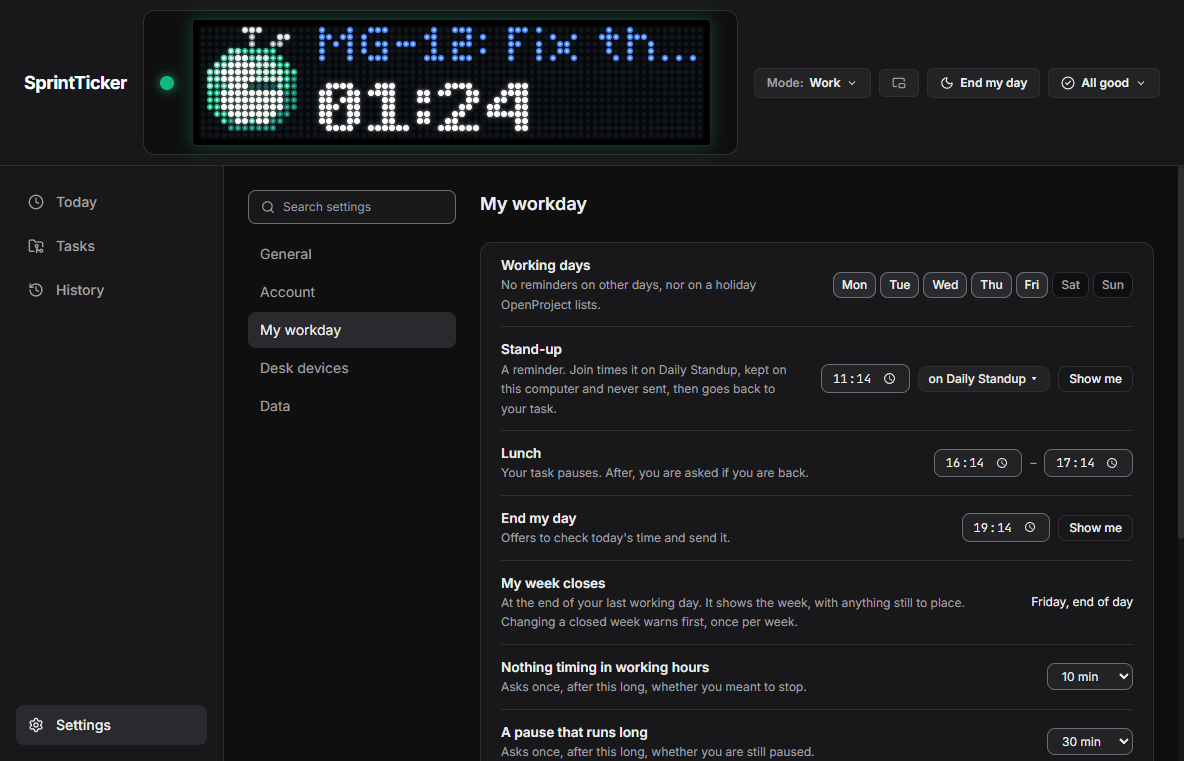
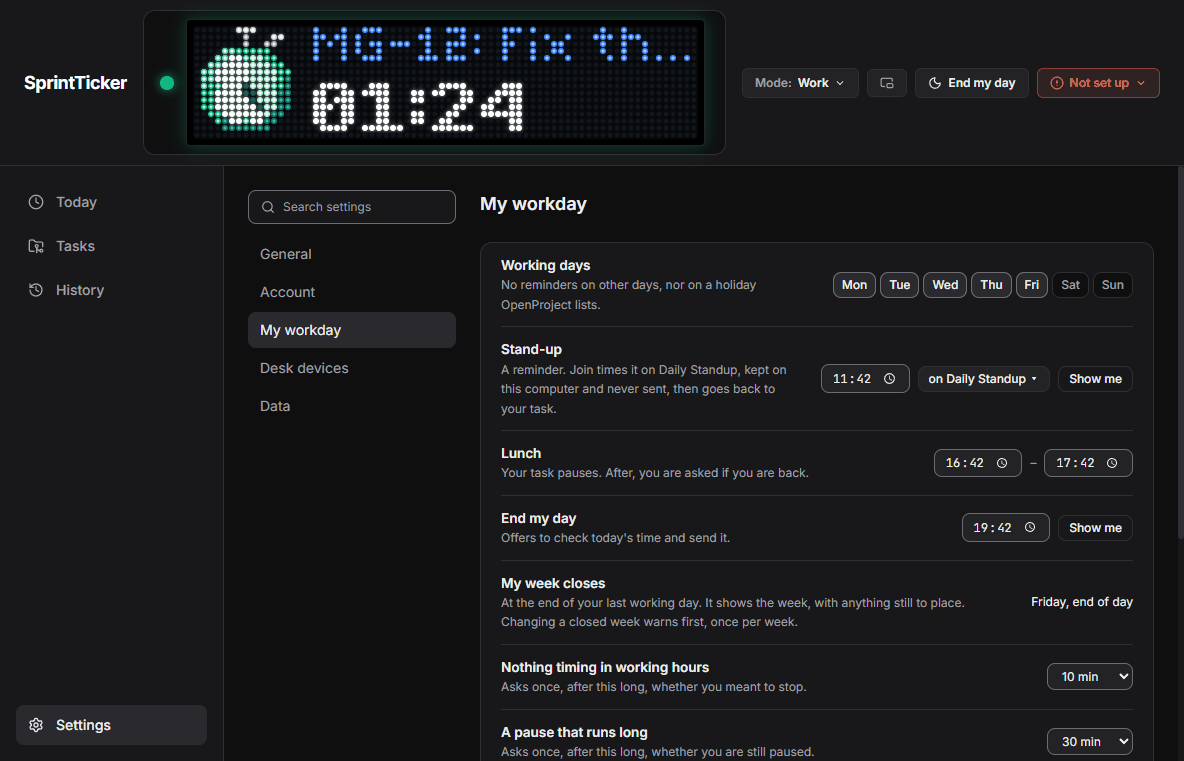
Redesign P15a6: behaviour
Today asks one question at a time, the most urgent first, with a line
counting the others (REVIEW-2026-11 C5, the user's choice). The day's
total keeps the held task during an interruption (C6); Switch leaves the
running task out (C8); the page scrolls clear of the Undo bar (C14);
Today's running row reads like the others (C18); the status says Not set
up with no account (C11); the mini timer's icons (C16) and the header's
words without a bar (C20). The Place window keeps its size: it hosts the
picker.

Changed region(s): [[0.1562, 0.0302, 0.7188, 0.1813], [0.75, 0.0907, 0.9688, 0.1209], [0.7188, 0.4836, 0.75, 0.5138]]

diff --git a/packages/desktop-app/src/renderer/views/Today/TodayView.tsx b/packages/desktop-app/src/renderer/views/Today/TodayView.tsx
@@ -2,9 +2,9 @@ import React, { useState } from 'react';
 import { ActiveSessionDTO, TaskDTO, WorklogDTO } from '../../../shared/dtos';
 import { ActiveTaskHeroCard } from '../../components/ActiveTaskHeroCard';
 import { PickerMode } from '../../hooks/useModals';
-import { useCeremonyPrompt, useMorning, useReminder, useUserMode } from '../../hooks/usePrompts';
+import { useCeremonyPrompt, useForgottenReview, useMorning, useReminder, useResumePrompt, useUserMode } from '../../hooks/usePrompts';
 import { MorningCard } from '../../components/MorningCard';
-import { TaskLeftCard } from '../../components/TaskLeftCard';
+import { TaskLeftCard, wasKept } from '../../components/TaskLeftCard';
 import { ReminderCard } from '../../components/ReminderPrompt';
 import { BreakCard, LunchQuestionCard, StandupCard } from '../../components/PromptCards';
 import { ResumeAfterLunchPrompt } from '../../components/ResumeAfterLunchPrompt';
@@ -61,25 +61,41 @@ export const TodayView: React.FC<TodayViewProps> = ({
   const [morning, putMorningAway] = useMorning();
   // When Today opened: the morning card's "in 22 minutes" counts from it.
   const [openedAt] = useState(() => new Date());
+  const [resume] = useResumePrompt();
+  const [forgotten] = useForgottenReview();
+  // Bumped when the task-left card is put away, so the next question shows.
+  const [, setKeptCount] = useState(0);
   const leaveAway = () => {
     setMode('WORK');
     window.electronAPI.setUserMode('WORK').catch(err => console.warn('[TodayView] Leaving Away failed:', err));
   };
+  // One question at a time, the most urgent first (REVIEW-2026-11 C5, the
+  // user's choice, 2026-11-13): stacked, three amber cards contradicted each
+  // other -- two Resume buttons -- and pushed the session's controls down.
+  const questions: React.ReactNode[] = [];
+  if (forgotten?.deferred) questions.push(<ForgottenSessionCard key="forgotten" />);
+  if (resume) questions.push(<ResumeAfterLunchPrompt key="resume" />);
+  if (ceremony?.type === 'LUNCH') questions.push(<LunchQuestionCard key="lunch" prompt={ceremony} />);
+  if (ceremony?.type === 'STANDUP') questions.push(<StandupCard key="standup" prompt={ceremony} session={session} />);
+  if (mode !== 'WORK') questions.push(<BreakCard key="break" mode={mode} session={session} onLeaveAway={leaveAway} />);
+  if (session?.taskUnlisted && !session.interruption && !wasKept(session)) {
+    questions.push(
+      <TaskLeftCard key={`${session.sessionId}-${session.taskLeftBecause ?? 'reassigned'}`} session={session}
+        onSwitch={() => onOpenPicker('start')} onKept={() => setKeptCount(n => n + 1)} />
+    );
+  }
+  if (reminder) questions.push(<ReminderCard key="reminder" reminder={reminder} openPicker={() => onOpenPicker('start')} onAnswered={() => setReminder(null)} />);
+  const [first, ...rest] = questions;
+  const more = rest.length;
   return (
   <div className="space-y-6">
     {/* The page's own heading (A20): its cards are h3 under it. */}
     <h2 className="sr-only">Today</h2>
-    <ForgottenSessionCard />
     {device && onOpenSettings && <StatusCards device={device} onOpenSettings={onOpenSettings} />}
     {morning && !session && <MorningCard morning={morning} now={openedAt} onOpenPicker={() => onOpenPicker('start')} onPutAway={putMorningAway} />}
-    {ceremony?.type === 'STANDUP' && <StandupCard prompt={ceremony} session={session} />}
-    {ceremony?.type === 'LUNCH' && <LunchQuestionCard prompt={ceremony} />}
-    <ResumeAfterLunchPrompt />
-    <BreakCard mode={mode} session={session} onLeaveAway={leaveAway} />
-    {reminder && <ReminderCard reminder={reminder} openPicker={() => onOpenPicker('start')} onAnswered={() => setReminder(null)} />}
-
-    {session?.taskUnlisted && !session.interruption && (
-      <TaskLeftCard key={`${session.sessionId}-${session.taskLeftBecause ?? 'reassigned'}`} session={session} onSwitch={() => onOpenPicker('start')} />
+    {first}
+    {more > 0 && (
+      <p className="-mt-3 text-xs text-text-secondary">{more === 1 ? '1 more question' : `${more} more questions`} after this one</p>
     )}
 
     <ActiveTaskHeroCard

diff --git a/packages/desktop-app/src/renderer/components/TodayEntries.tsx b/packages/desktop-app/src/renderer/components/TodayEntries.tsx
@@ -1,7 +1,10 @@
 import React, { useState } from 'react';
 import { ActiveSessionDTO, WorklogDTO } from '../../shared/dtos';
 import { localDateKey } from '../../shared/local-date';
-import { formatClockTime, formatHoursAndMinutes } from '../utils/formatters';
+import { formatHoursAndMinutes, formatHoursMinutes } from '../utils/formatters';
+import { hasTaskPage } from '../../shared/task-page';
+import { ADHOC_PROJECT_ID } from '../../shared/adhoc-project';
+import { TaskPageButton } from './TaskPageButton';
 import { useProviderCapabilities } from '../hooks/useProviderCapabilities';
 import { useEntryActions } from './EntryActions';
 import { useInterruptionsToPlace } from './InterruptionsToPlace';
@@ -35,7 +38,9 @@ export const TodayEntries: React.FC<{ session: ActiveSessionDTO | null; worklogs
     .reduce((sum, item) => sum + item.durationSeconds, 0);
   const loggedSeconds = worklogs.reduce((sum, log) => sum + log.durationSeconds, 0);
   const sentSeconds = worklogs.filter(log => log.syncState === 'sent').reduce((sum, log) => sum + log.durationSeconds, 0);
-  const totalSeconds = loggedSeconds + (session?.elapsedSeconds ?? 0) + toPlaceSeconds;
+  // During an interruption the session is the fragment; the task it holds
+  // still counts (C6).
+  const totalSeconds = loggedSeconds + (session?.elapsedSeconds ?? 0) + (session?.interruption?.heldElapsedSeconds ?? 0) + toPlaceSeconds;
 
   const newestFirst = [...worklogs].sort((a, b) => b.startedAtUtc.localeCompare(a.startedAtUtc));
   const shown = showAll ? newestFirst : newestFirst.slice(0, TODAY_ENTRIES_SHOWN);
@@ -76,14 +81,19 @@ export const TodayEntries: React.FC<{ session: ActiveSessionDTO | null; worklogs
                 <td className={`${cell} font-mono font-bold text-text-primary`}>
                   <span className="inline-flex items-center gap-2">
                     <span className={`w-2 h-2 rounded-full ${session.status === 'TRACKING' ? 'bg-accent-green motion-safe:animate-pulse' : 'bg-accent-amber'}`} />
-                    {session.interruption ? '⚡' : session.taskKey}
+                    {session.interruption ? <span aria-hidden="true">⚡</span> : session.taskKey}
+                    {!session.interruption && hasTaskPage(session.isAdHoc ? ADHOC_PROJECT_ID : session.projectId, session.providerId) && (
+                      <TaskPageButton taskId={session.taskId} taskKey={session.taskKey} />
+                    )}
                   </span>
                 </td>
-                <td className={`${cell} text-white font-medium`}>{session.taskTitle}</td>
-                <td className={`${cell} text-xs font-semibold ${session.status === 'TRACKING' ? 'text-accent-green' : 'text-accent-amber'}`}>
-                  {session.status === 'TRACKING' ? 'running' : 'paused'}
+                {/* The rows' own pattern (C18): the note column, a duration, HH:MM. */}
+                <td className={`${cell} text-text-secondary`}>{session.taskTitle}</td>
+                <td className={`${cell} font-mono font-bold whitespace-nowrap ${session.status === 'TRACKING' ? 'text-accent-green' : 'text-accent-amber'}`}>
+                  {formatHoursAndMinutes(session.elapsedSeconds)}
+                  <span className="sr-only">{session.status === 'TRACKING' ? ', running' : ', paused'}</span>
                 </td>
-                <td className={`${cell} text-xs text-text-secondary font-mono`}>{formatClockTime(new Date(session.startTimeUtc))}</td>
+                <td className={`${cell} text-xs text-text-secondary font-mono`}>{formatHoursMinutes(new Date(session.startTimeUtc))}</td>
                 <td className={cell} />
                 <td className={cell} />
               </tr>

diff --git a/docs/index.html b/docs/index.html
@@ -696,8 +696,8 @@
       <li>☾ <strong>End my day</strong> opens the end-of-day wrap-up now.</li>
       <li>✅ <strong>The status entry</strong> says in a word how things stand: <strong>All good</strong>,
       <strong>2 waiting</strong> (entries not yet sent to your provider), <strong>Sending stopped</strong>
-      (your provider refused them), <strong>Update</strong>, or <strong>Bar offline</strong>; the worst
-      wins. Click it for the details, <strong>Try now</strong> to send what waits, and <strong>What
+      (your provider refused them), <strong>Not set up</strong> (no account yet: Settings ›
+      Account › <strong>Set up</strong>), <strong>Update</strong>, or <strong>Bar offline</strong>; the worst wins. Click it for the details, <strong>Try now</strong> to send what waits, and <strong>What
       you missed</strong>: the last notifications the bar showed.</li>
       </ul>
       <p>🧭 <strong>When something is not normal, Today says what still works</strong>, in a card
@@ -1372,7 +1372,8 @@
       hardware controls below.</p>
       <p>🔕 <strong>No prompt takes the window.</strong> SprintTicker never comes up over what you
       are typing. A question waits as a card at the top of <strong>Today</strong> and in the
-      mini timer&#39;s row until you answer it, and, while the window is hidden in the
+      mini timer&#39;s row until you answer it -- one at a time, the most urgent
+      first, with <em>1 more question after this one</em> when others wait -- and, while the window is hidden in the
       tray or minimised, a Windows notification says so; clicking it opens the
       window. The stand-up&#39;s card offers <strong>Join</strong>, <strong>Skip today</strong> and <strong>Remind me in
       10 min</strong>, and stays until you choose. The end-of-day wrap-up opens in the

diff --git a/packages/desktop-app/src/renderer/utils/status-summary.ts b/packages/desktop-app/src/renderer/utils/status-summary.ts
@@ -5,11 +5,11 @@ export type StatusSeverity = 'ok' | 'info' | 'waiting' | 'problem';
 
 const RANK: Record<StatusSeverity, number> = { ok: 0, info: 1, waiting: 2, problem: 3 };
 /** Between two rows as bad: time not reaching the provider is worse than a bar. */
-const TIE: Record<StatusRow['id'], number> = { update: 0, bar: 1, sending: 2 };
+const TIE: Record<StatusRow['id'], number> = { update: 0, bar: 1, sending: 2, account: 3 };
 
 /** One row of the status panel (S27). */
 export interface StatusRow {
-  id: 'bar' | 'sending' | 'update';
+  id: 'account' | 'bar' | 'sending' | 'update';
   severity: StatusSeverity;
   /** The row's first line: what is the case. */
   title: string;
@@ -26,6 +26,11 @@ export interface StatusInputs {
   queue: SyncQueueSnapshotDTO | null;
   update: UpdateStatusDTO | null;
   providerName: string;
+  /**
+   * The account has no site or token (`SyncHealthState` 'not-configured'):
+   * the header said All good while nothing could be fetched or sent (C11).
+   */
+  accountNotSetUp?: boolean;
 }
 
 const ALL_GOOD = 'All good';
@@ -33,6 +38,16 @@ const ALL_GOOD = 'All good';
 /** The rows the panel shows, in the panel's order. */
 export function statusRows(inputs: StatusInputs): StatusRow[] {
   const rows: StatusRow[] = [];
+
+  if (inputs.accountNotSetUp) {
+    rows.push({
+      id: 'account',
+      severity: 'problem',
+      title: `${inputs.providerName} not set up`,
+      detail: `Your time is kept here. To fetch your tasks and send your time: Settings › Account › Set up.`,
+      headerWord: 'Not set up'
+    });
+  }
 
   if (inputs.bar) {
     rows.push(

diff --git a/packages/desktop-app/src/renderer/components/MiniBar.tsx b/packages/desktop-app/src/renderer/components/MiniBar.tsx
@@ -1,5 +1,5 @@
 import React, { useEffect, useState } from 'react';
-import { AlertTriangle, CornerDownRight, History, Link2, ListTodo, Pause, Play, Square, Undo2, X, Zap } from 'lucide-react';
+import { AlertTriangle, CornerDownRight, History, Link2, ListTodo, Pause, Play, Repeat, Square, Undo2, X, Zap } from 'lucide-react';
 import { useSession } from '../hooks/useSession';
 import { useScreenIcon } from '../hooks/useScreenIcon';
 import { useToPlaceCount } from '../hooks/useToPlaceCount';
@@ -335,7 +335,8 @@ export const MiniBar: React.FC = () => {
       className={button}
       onClick={run('Open the task picker', () => api.openTaskPicker())}
     >
-      <ListTodo className="w-4 h-4" />
+      {/* ⇄ for Switch, as on every surface (C16). */}
+      {session ? <Repeat className="w-4 h-4" /> : <ListTodo className="w-4 h-4" />}
     </button>
   );
 
@@ -395,7 +396,9 @@ export const MiniBar: React.FC = () => {
               type="button"
               title={`${Verb.BACK} to ${interruption.interruptedTaskKey}: end the interruption and go back to it`}
               aria-label={`${Verb.BACK} to ${interruption.interruptedTaskKey}`}
-              className={button}
+              // The main answer here, green as in the window; set apart from
+              // Place, or ↶ beside ↳ read as Undo and Redo (C16).
+              className="mr-1.5 p-1.5 rounded-md bg-accent-green text-dark-900 hover:bg-accent-green/90 transition-colors [-webkit-app-region:no-drag]"
               onClick={run('Back', back)}
             >
               <Undo2 className="w-4 h-4" />

diff --git a/packages/desktop-app/src/renderer/components/TaskLeftCard.tsx b/packages/desktop-app/src/renderer/components/TaskLeftCard.tsx
@@ -10,7 +10,7 @@ import { useAnnounce } from './LiveAnnouncer';
 /** Where "Keep timing on it" is remembered, for this session and this reason: the window reopened does not ask again. */
 const keptKey = (session: ActiveSessionDTO) => `task-left-kept:${session.sessionId}:${session.taskLeftBecause ?? 'reassigned'}`;
 
-function wasKept(session: ActiveSessionDTO): boolean {
+export function wasKept(session: ActiveSessionDTO): boolean {
   try {
     return window.sessionStorage.getItem(keptKey(session)) === '1';
   } catch {
@@ -46,7 +46,7 @@ export function taskLeftHeading(session: ActiveSessionDTO, providerName: string)
  * Mounted per session and reason (its key), so "Keep timing on it" is
  * final for that one only.
  */
-export const TaskLeftCard: React.FC<{ session: ActiveSessionDTO; onSwitch: () => void }> = ({ session, onSwitch }) => {
+export const TaskLeftCard: React.FC<{ session: ActiveSessionDTO; onSwitch: () => void; onKept?: () => void }> = ({ session, onSwitch, onKept }) => {
   const [kept, setKept] = useState(() => wasKept(session));
   const [moving, setMoving] = useState(false);
   const [error, setError] = useState<string | null>(null);
@@ -57,6 +57,7 @@ export const TaskLeftCard: React.FC<{ session: ActiveSessionDTO; onSwitch: () =>
   const soFar = formatHoursAndMinutes(session.elapsedSeconds);
   const keep = () => {
     setKept(true);
+    onKept?.();
     try {
       window.sessionStorage.setItem(keptKey(session), '1');
     } catch {

diff --git a/packages/desktop-app/src/renderer/components/TaskPicker.tsx b/packages/desktop-app/src/renderer/components/TaskPicker.tsx
@@ -40,6 +40,11 @@ export interface TaskPickerProps {
   mode: PickerMode;
   onClose: () => void;
   onPick: (picked: PickedTask) => void;
+  /**
+   * The task timing now. Switch leaves it out: it headed Recent, highlighted
+   * for Enter, and switched to itself (REVIEW-2026-11 C8).
+   */
+  runningTaskId?: string | null;
   /** The heading, when the mode's own is not enough: `Place "Call with Marc" on a task`. */
   title?: string;
   /** One line under the heading: what is being placed or moved. */
@@ -113,7 +118,8 @@ const TaskPickerDialog: React.FC<TaskPickerProps> = ({
   justChosen = [],
   onKeepOff,
   keepOffMeaning,
-  asWindow = false
+  asWindow = false,
+  runningTaskId = null
 }) => {
   const { capabilities, providerName } = useProviderCapabilities();
   const [visibility, setVisibility] = useTaskVisibility();
@@ -143,7 +149,7 @@ const TaskPickerDialog: React.FC<TaskPickerProps> = ({
   }, []);
 
   const realOnly = needsRealTask(mode);
-  const usable = (task: TaskDTO) => !realOnly || task.projectId !== ADHOC_PROJECT_ID;
+  const usable = (task: TaskDTO) => (!realOnly || task.projectId !== ADHOC_PROJECT_ID) && !(mode === 'switch' && task.id === runningTaskId);
   const snapshot = data ?? EMPTY_DATA;
   const { visible: tasks, hiddenCount } = visibleTasks(snapshot.tasks, visibility);
   const projects = orderProjects(snapshot.projects, tasks, snapshot.starred, snapshot.projectSeconds);

diff --git a/packages/desktop-app/src/renderer/components/StatusPanel.tsx b/packages/desktop-app/src/renderer/components/StatusPanel.tsx
@@ -5,6 +5,7 @@ import { DeviceStatusDTO, NotificationLogEntryDTO, SyncQueueSnapshotDTO, UpdateS
 import { StatusRow, statusHeaderWord, statusRows, worstRow } from '../utils/status-summary';
 import { formatClockTime } from '../utils/formatters';
 import { useProviderCapabilities } from '../hooks/useProviderCapabilities';
+import { useSyncHealth } from '../hooks/usePrompts';
 import { SettingsGroupId } from '../views/Settings/settings-groups';
 
 /** How many mirrored notifications "What you missed" lists. */
@@ -29,6 +30,7 @@ export const StatusPanel: React.FC<StatusPanelProps> = ({ device, onOpenSettings
   const [missed, setMissed] = useState<NotificationLogEntryDTO[]>([]);
   const [notice, setNotice] = useState<string | null>(null);
   const { providerName } = useProviderCapabilities();
+  const health = useSyncHealth();
   const rootRef = useRef<HTMLDivElement | null>(null);
 
   const readQueue = useCallback((): void => {
@@ -71,7 +73,8 @@ export const StatusPanel: React.FC<StatusPanelProps> = ({ device, onOpenSettings
     bar: device.enabled ? { connected: device.connected, address: device.ipAddress, pingMs: device.webSocketPingMs } : null,
     queue,
     update,
-    providerName
+    providerName,
+    accountNotSetUp: health?.state === 'not-configured'
   });
   const worst = worstRow(rows);
   const word = statusHeaderWord(rows);

diff --git a/packages/desktop-app/tests/renderer/reminders.test.tsx b/packages/desktop-app/tests/renderer/reminders.test.tsx
@@ -83,6 +83,24 @@ describe('reminders', () => {
     expect(screen.queryByRole('region', { name: 'Still paused?' })).toBeNull();
   });
 
+  it('TodayView_TwoQuestions_OneCardAtATime_TheOtherCounted', async () => {
+    const bridge = installElectronApi({
+      getReminder: async () => PAUSED,
+      getCeremonyPrompt: async () => ({ type: 'STANDUP', title: 'Stand-up', at: '09:30' })
+    });
+    render(<TodayView session={null} worklogs={[]} onPause={() => undefined} onResume={() => undefined}
+      onComplete={() => undefined} onDiscard={() => undefined} onInterrupt={() => undefined} onOpenPicker={() => undefined} />);
+
+    // The stand-up first (C5, the user's choice): the reminder waits behind it.
+    expect(await screen.findByRole('region', { name: 'The stand-up' })).toBeTruthy();
+    expect(screen.queryByRole('region', { name: 'Still paused?' })).toBeNull();
+    expect(screen.getByText('1 more question after this one')).toBeTruthy();
+
+    act(() => bridge.emit('onCeremonyPrompt', null));
+    expect(await screen.findByRole('region', { name: 'Still paused?' })).toBeTruthy();
+    expect(screen.queryByText(/more question/)).toBeNull();
+  });
+
   it('MiniBar_Reminder_TakesTheRow_StartOpensThePickerWindow', async () => {
     const bridge = installElectronApi({ getReminder: async () => NOTHING });
     render(<MiniBar />);

diff --git a/packages/desktop-app/src/renderer/components/AppShell.tsx b/packages/desktop-app/src/renderer/components/AppShell.tsx
@@ -84,7 +84,9 @@ export const AppShell: React.FC<AppShellProps> = ({ place, onNavigate, device, t
             }`}
           >
             <PictureInPicture2 className="w-3.5 h-3.5 shrink-0" />
-            <span className="hidden hdr-md:inline whitespace-nowrap">Mini timer</span>
+            {/* The breakpoints were measured with the bar's preview in the header;
+                without it there is room for the words (C20). */}
+            <span className={`${hasBar ? 'hidden hdr-md:inline' : 'inline'} whitespace-nowrap`}>Mini timer</span>
           </button>
 
           <button
@@ -95,7 +97,7 @@ export const AppShell: React.FC<AppShellProps> = ({ place, onNavigate, device, t
             className="flex items-center gap-1.5 bg-dark-700 hover:bg-dark-600 text-text-primary px-3 py-1.5 rounded-md border border-border-dark font-semibold text-xs transition-colors shrink-0"
           >
             <Moon className="w-3.5 h-3.5 shrink-0" />
-            <span className="hidden hdr-sm:inline whitespace-nowrap">End my day</span>
+            <span className={`${hasBar ? 'hidden hdr-sm:inline' : 'inline'} whitespace-nowrap`}>End my day</span>
           </button>
 
           <StatusPanel device={device} onOpenSettings={onOpenSettings} />

diff --git a/packages/desktop-app/src/renderer/views/Settings/AccountSettings.tsx b/packages/desktop-app/src/renderer/views/Settings/AccountSettings.tsx
@@ -233,7 +233,7 @@ export const AccountSettings: React.FC<AccountSettingsProps> = ({ hasBar = true 
     ? 'Tasks of your own, kept on this computer. Nothing is sent anywhere.'
     : site
       ? `${isJira && jiraEmail ? `${jiraEmail}. ` : ''}${own.length} ${own.length === 1 ? 'project' : 'projects'}, ${taskCount} ${taskCount === 1 ? 'task' : 'tasks'}. ${refreshed}`
-      : `Enter your ${name} site and token to fetch your tasks.`;
+      : `Enter your ${name} ${isJira ? 'site and API token' : 'address and API key'} to fetch your tasks.`;
 
   return (
     <div className="space-y-4">
@@ -263,7 +263,7 @@ export const AccountSettings: React.FC<AccountSettingsProps> = ({ hasBar = true 
                 </SettingButton>
               )}
               <SettingButton tone="ghost" aria-expanded={changingAccount} onClick={() => setChangingAccount(open => !open)}>
-                Change account
+                {remote && !site ? 'Set up' : 'Change account'}
               </SettingButton>
             </>
           }

diff --git a/packages/desktop-app/tests/renderer/task-picker.test.tsx b/packages/desktop-app/tests/renderer/task-picker.test.tsx
@@ -48,6 +48,16 @@ const listed = () =>
 const search = (text: string) => fireEvent.change(screen.getByLabelText('Search tasks'), { target: { value: text } });
 
 describe('TaskPicker', () => {
+  it('Switch_TheRunningTask_IsLeftOut_TheHighlightOnTheFirstRealOption', async () => {
+    open({ runningTaskId: MG15.id });
+    await screen.findByText(/previous task/);
+
+    // C8: MG-15 is timing; switching to it would switch to itself.
+    expect(listed()).not.toContain('MG-15');
+    const field = screen.getByRole('combobox', { name: 'Search tasks' });
+    expect(document.getElementById(field.getAttribute('aria-activedescendant')!)?.textContent).toMatch(/^PF-31/);
+  });
+
   it('Switch_Opened_PreviousRecentStarredMineProjects_InThatOrder', async () => {
     open();
     await screen.findByText(/previous task/);
